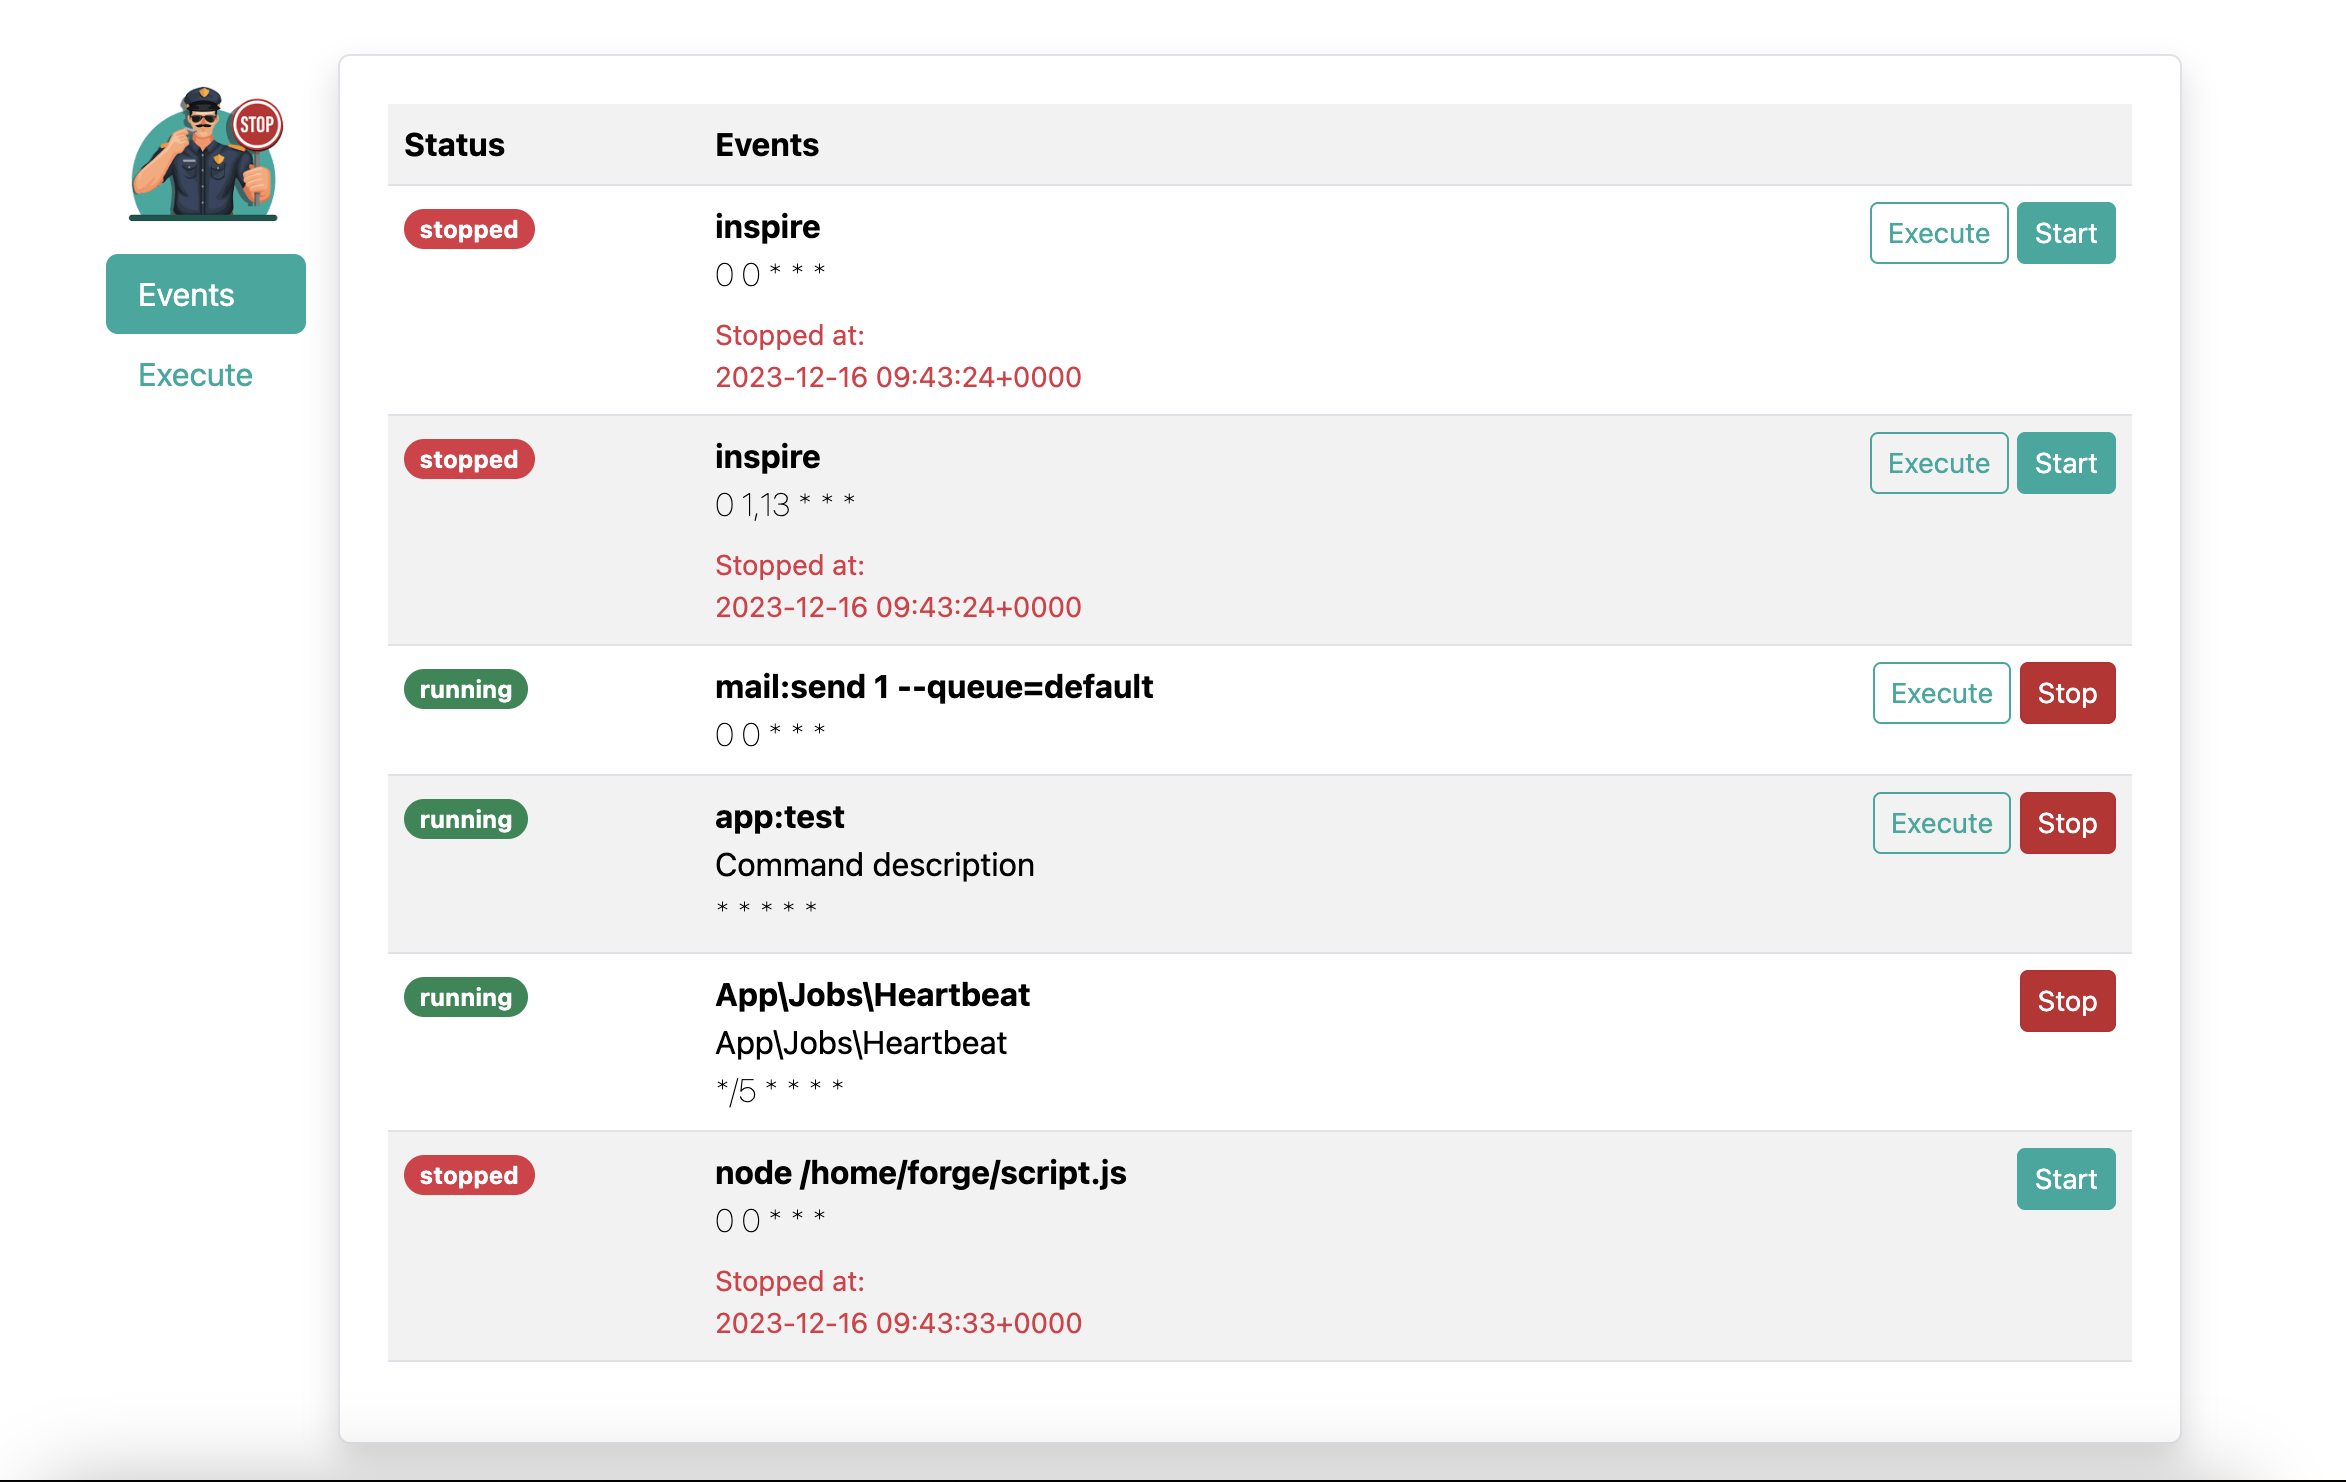
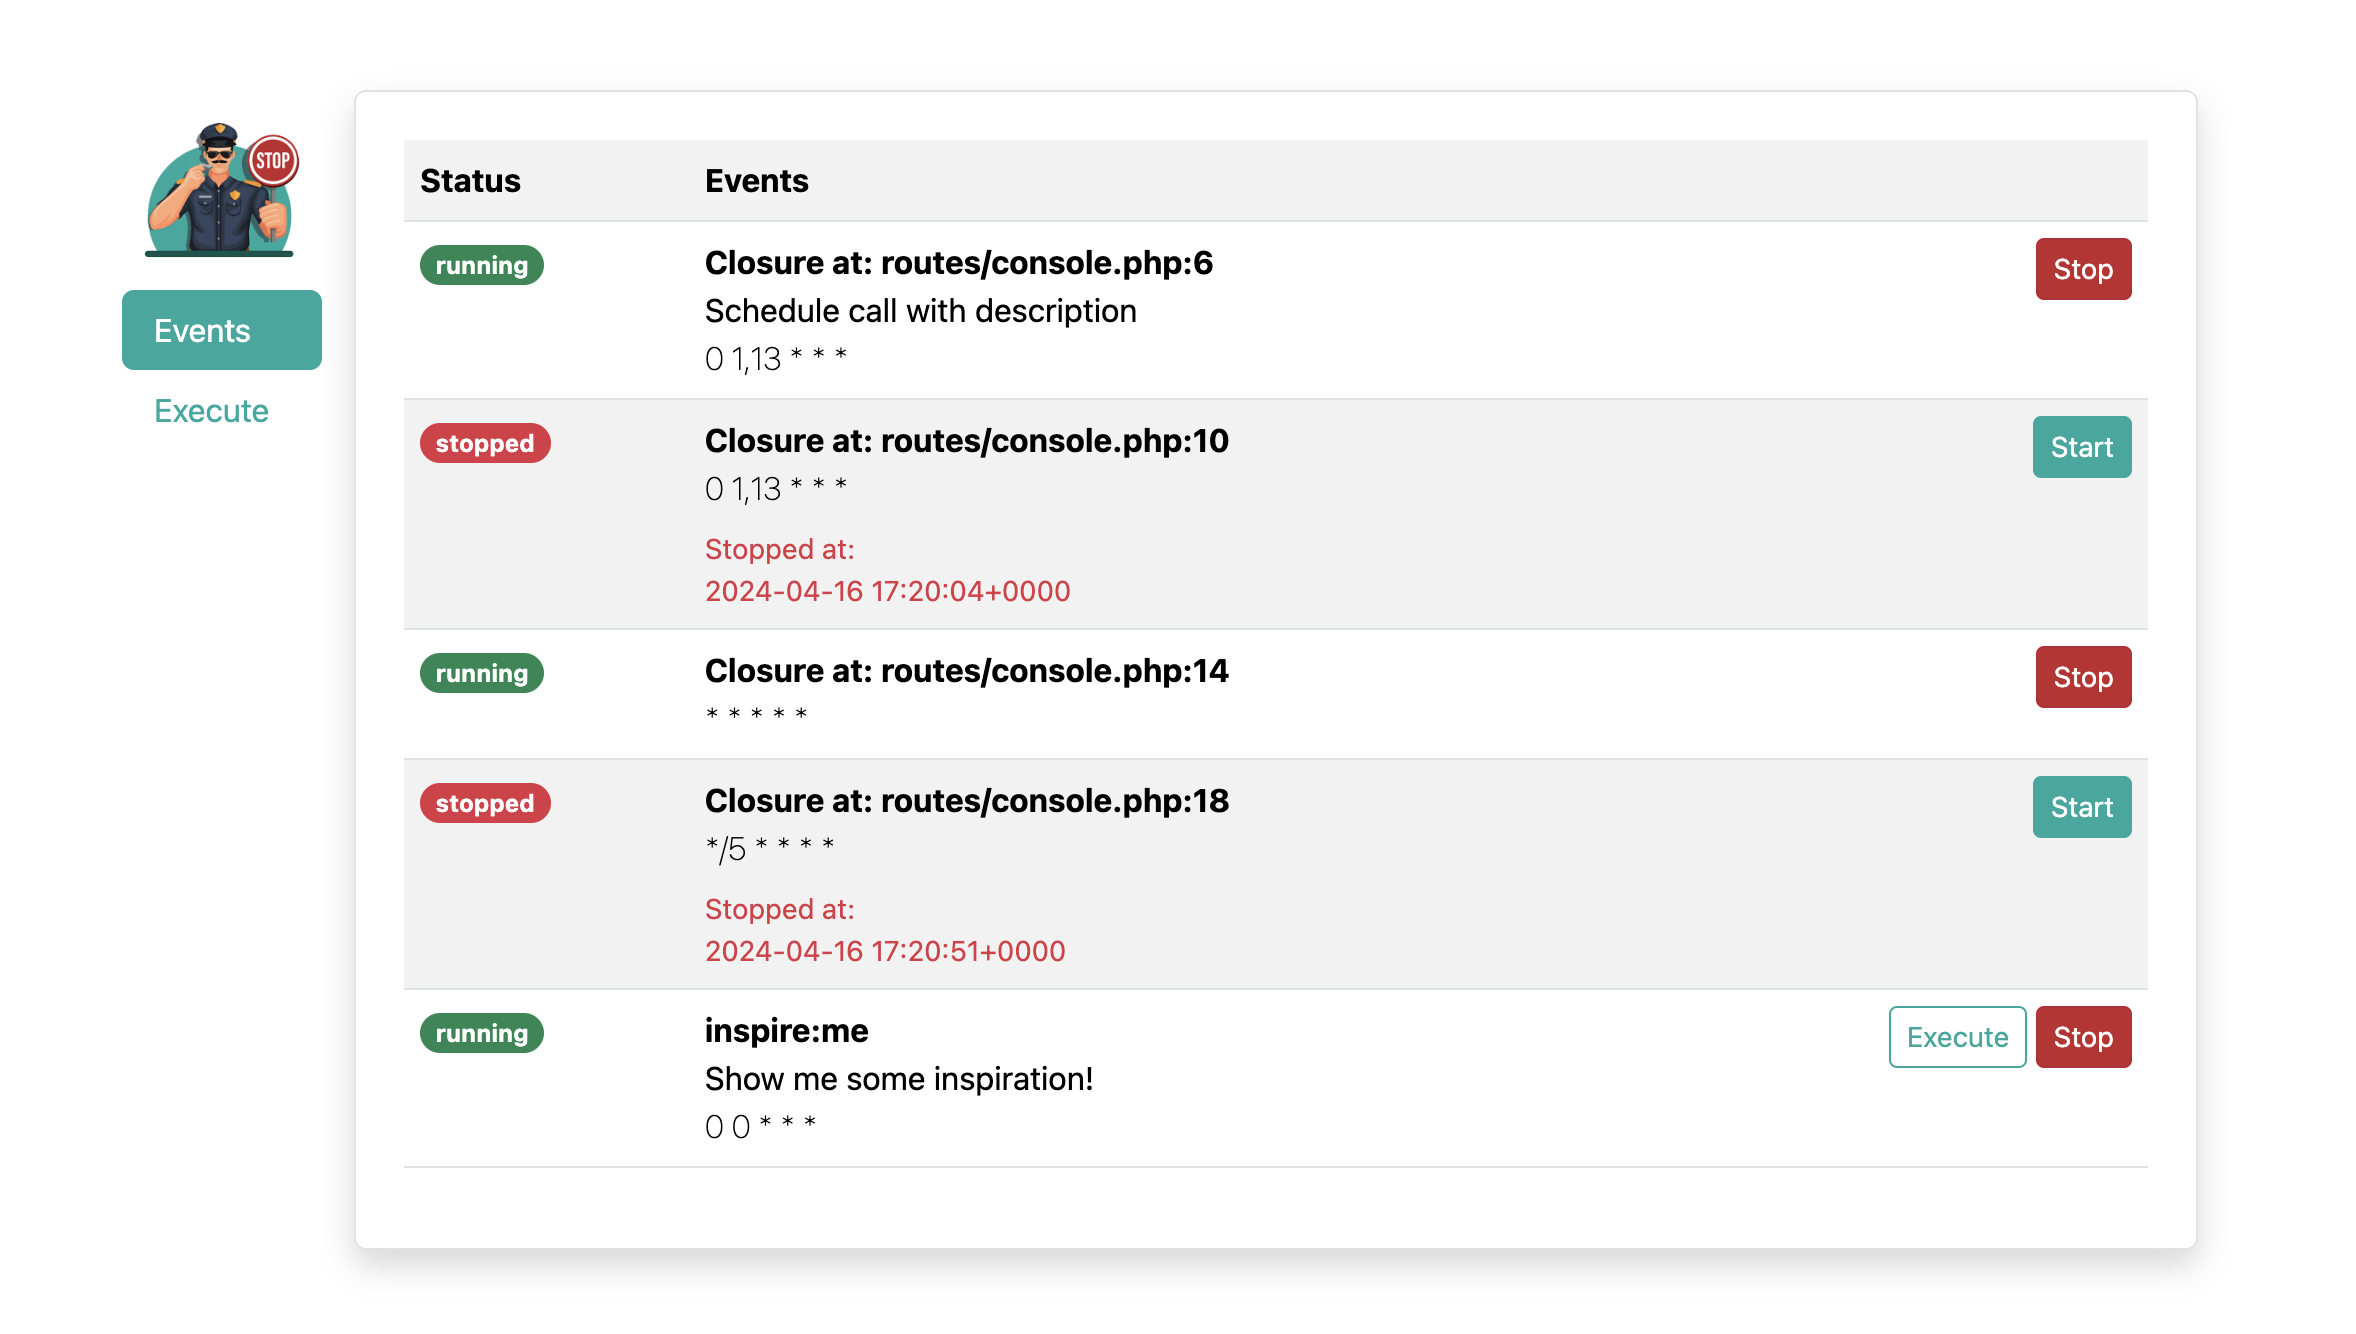
refactor/better-command-descriptions (#4)
* showed better command descriptions for commands without names, 
* updated event list screenshot

diff --git a/src/Services/SchedulePoliceService.php b/src/Services/SchedulePoliceService.php
@@ -5,6 +5,8 @@ namespace Acdphp\SchedulePolice\Services;
 use Acdphp\SchedulePolice\Data\ExecResult;
 use Acdphp\SchedulePolice\Data\ScheduledEvent;
 use Acdphp\SchedulePolice\Models\StoppedScheduledEvent;
+use Closure;
+use Illuminate\Console\Scheduling\CallbackEvent;
 use Illuminate\Console\Scheduling\Event;
 use Illuminate\Console\Scheduling\Schedule;
 use Illuminate\Contracts\Console\Kernel;
@@ -14,6 +16,8 @@ use Illuminate\Support\Facades\Artisan;
 use Illuminate\Support\Facades\Auth;
 use Illuminate\Support\Facades\Schema;
 use Illuminate\Support\Str;
+use ReflectionClass;
+use ReflectionFunction;
 use Throwable;
 
 class SchedulePoliceService
@@ -121,6 +125,10 @@ class SchedulePoliceService
 
     public function getEventKey(Event $event): string
     {
+        if ($event instanceof CallbackEvent) {
+            return 'Closure at: '.$this->getClosureLocation($event);
+        }
+
         return Str::of($event->command)
             ->after('artisan\'')
             ->whenEmpty(fn () => Str::of($event->description))
@@ -130,5 +138,36 @@ class SchedulePoliceService
     public function setConfig(array $config): void
     {
         $this->config = $config;
+    }
+
+    private function getClosureLocation(CallbackEvent $event): string
+    {
+        $callback = (new ReflectionClass($event))->getProperty('callback')->getValue($event);
+
+        if ($callback instanceof Closure) {
+            $function = new ReflectionFunction($callback);
+
+            return sprintf(
+                '%s:%s',
+                str_replace(
+                    app()->basePath().DIRECTORY_SEPARATOR,
+                    '',
+                    $function->getFileName() ?: ''
+                ),
+                $function->getStartLine()
+            );
+        }
+
+        if (is_string($callback)) {
+            return $callback;
+        }
+
+        if (is_array($callback)) {
+            $className = is_string($callback[0]) ? $callback[0] : $callback[0]::class;
+
+            return sprintf('%s::%s', $className, $callback[1]);
+        }
+
+        return sprintf('%s::__invoke', $callback::class);
     }
 }
